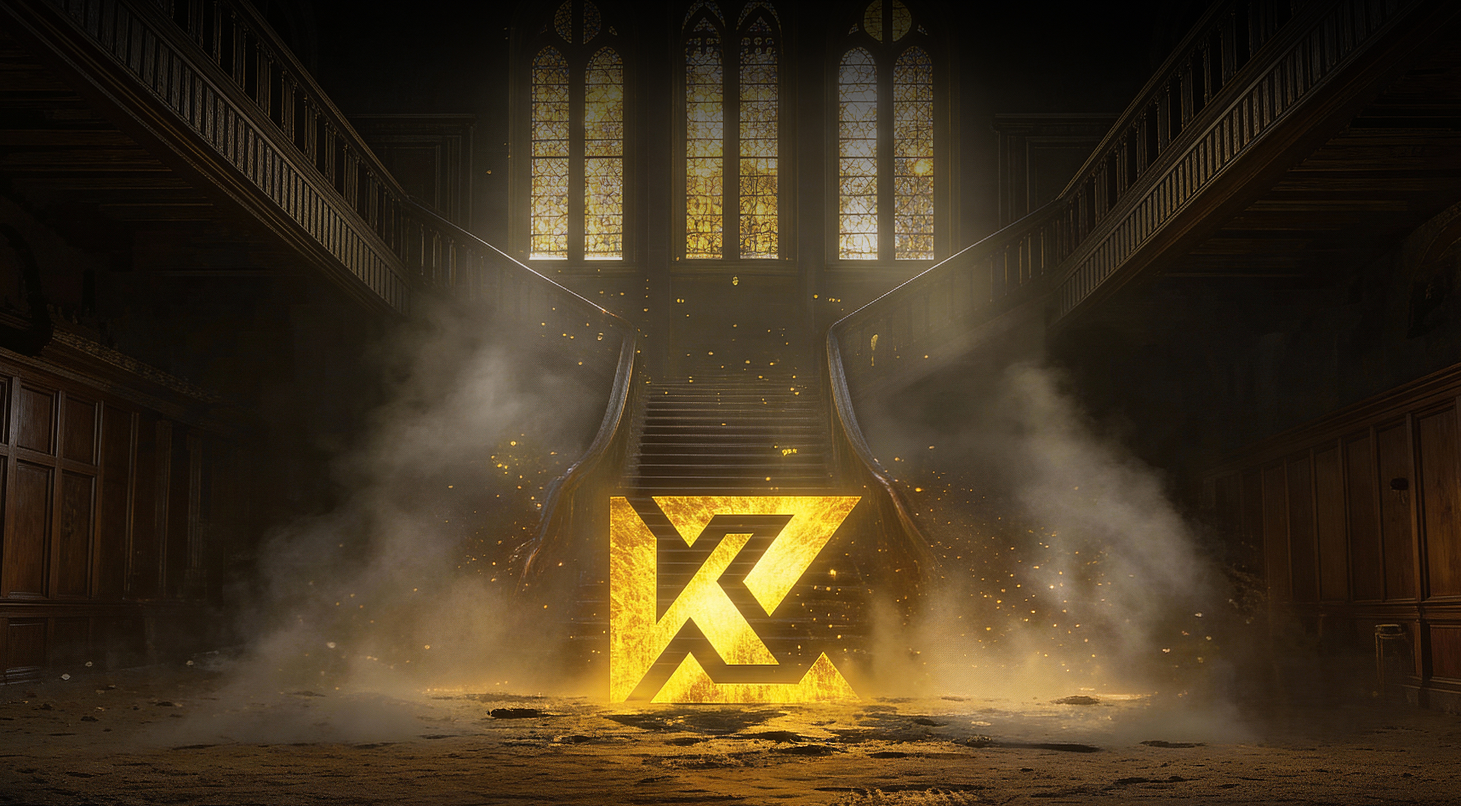
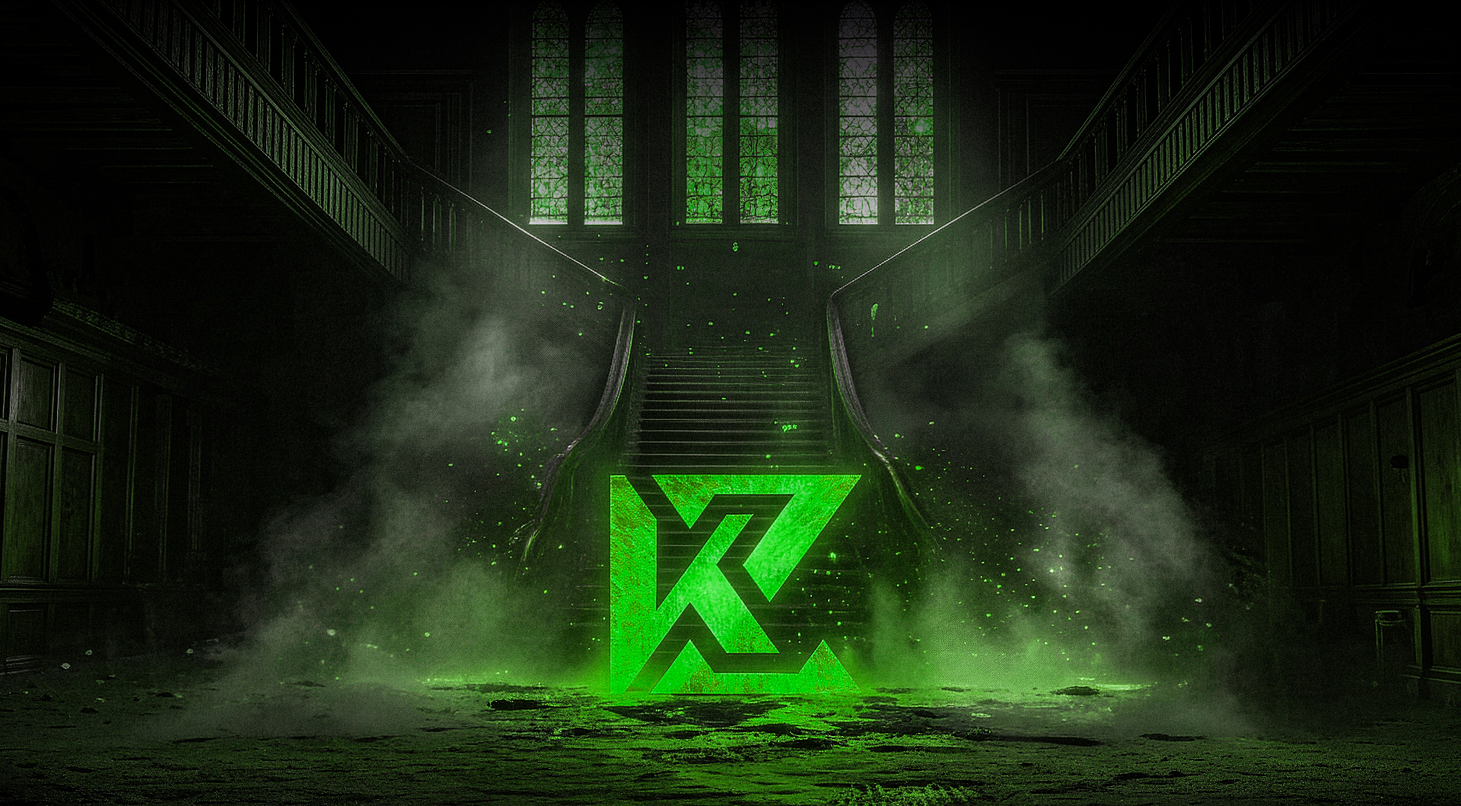
Changes

diff --git a/src/components/ui/button.tsx b/src/components/ui/button.tsx
@@ -9,14 +9,14 @@ const buttonVariants = cva(
   {
     variants: {
       variant: {
-        default: "bg-primary text-primary-foreground hover:bg-primary/90 hover:shadow-[0_0_20px_hsl(51_100%_50%/0.4)]",
+        default: "bg-primary text-primary-foreground hover:bg-primary/90 hover:shadow-[0_0_20px_hsl(136_82%_41%/0.4)]",
         destructive: "bg-destructive text-destructive-foreground hover:bg-destructive/90",
         outline: "border border-input bg-background hover:bg-accent hover:text-accent-foreground",
         secondary: "bg-secondary text-secondary-foreground hover:bg-secondary/80",
         ghost: "hover:bg-accent hover:text-accent-foreground",
         link: "text-primary underline-offset-4 hover:underline",
-        hero: "bg-primary text-primary-foreground font-semibold hover:bg-primary/90 hover:shadow-[0_0_30px_hsl(51_100%_50%/0.5)] hover:scale-105",
-        glow: "bg-primary text-primary-foreground font-semibold shadow-[0_0_20px_hsl(51_100%_50%/0.4)] hover:shadow-[0_0_40px_hsl(51_100%_50%/0.6)] hover:scale-105",
+        hero: "bg-primary text-primary-foreground font-semibold hover:bg-primary/90 hover:shadow-[0_0_30px_hsl(136_82%_41%/0.5)] hover:scale-105",
+        glow: "bg-primary text-primary-foreground font-semibold shadow-[0_0_20px_hsl(136_82%_41%/0.4)] hover:shadow-[0_0_40px_hsl(136_82%_41%/0.6)] hover:scale-105",
       },
       size: {
         default: "h-10 px-4 py-2",
